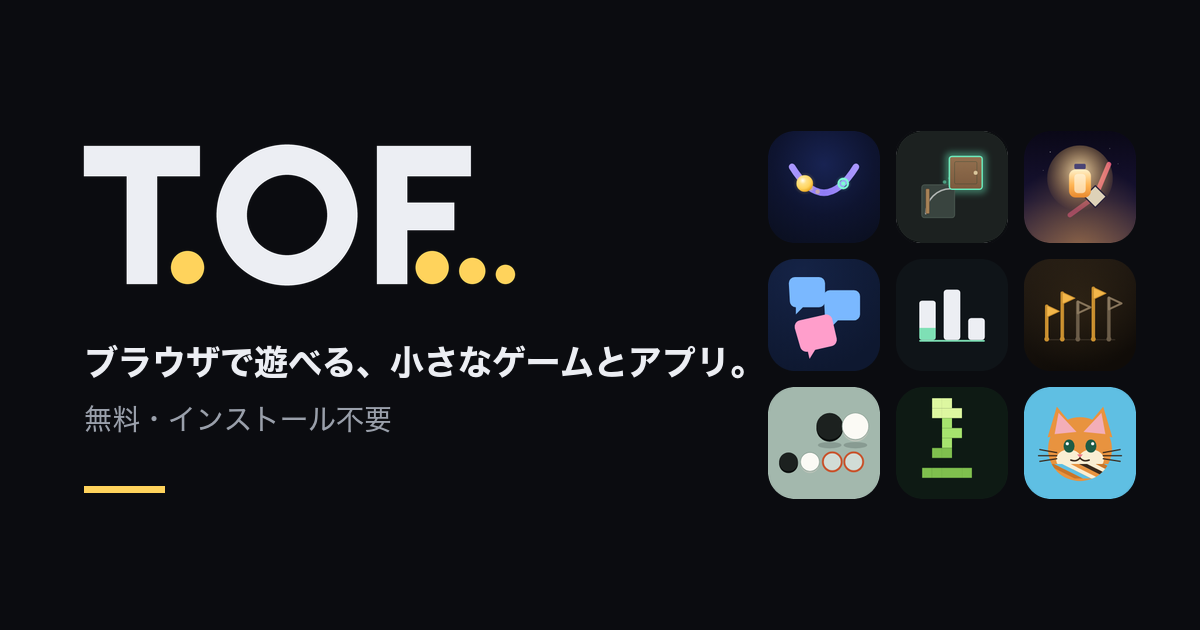
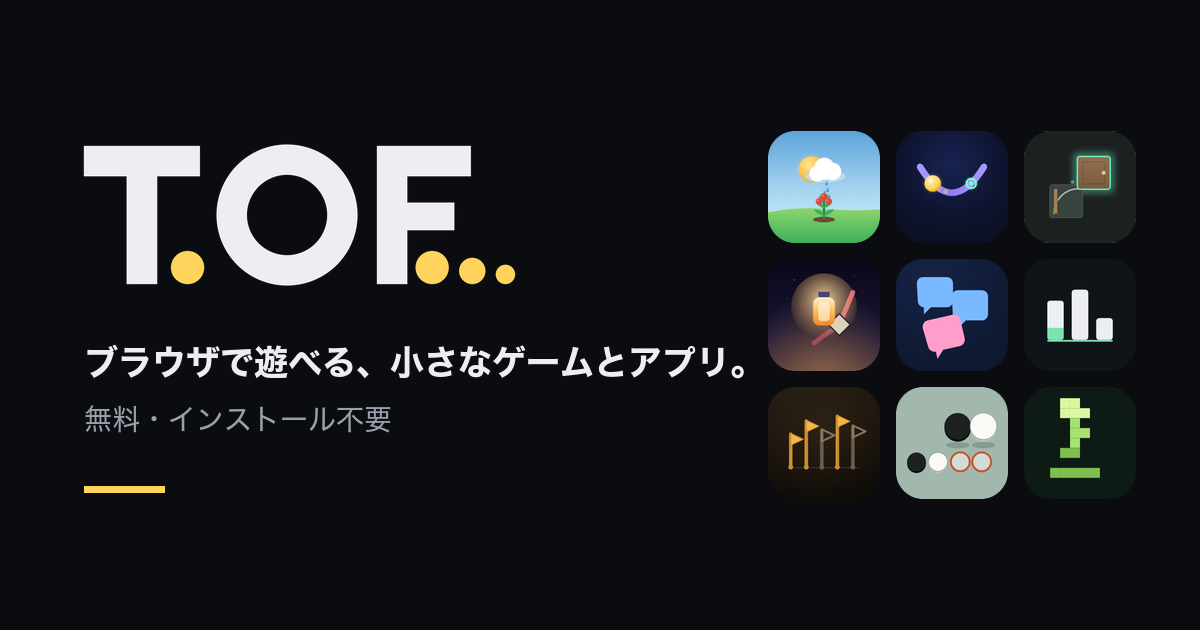
BLOOMCAST をポータルに追加する

Changed region(s): [[0.6167, 0.181, 0.9558, 0.8143], [0.8325, 0.2111, 0.9558, 0.3921]]

diff --git a/apps.js b/apps.js
@@ -13,6 +13,16 @@
 
 window.TOFO_APPS = [
   {
+    id: 'bloomcast',
+    name: 'BLOOMCAST',
+    title: '雲で日差しと雨を配って育てる',
+    desc: '空の雲を指で動かして太陽を隠し、長押しで雨を降らせて、画面の下の植物をできるだけ早く実らせる。ほしい日差しと水は朝・昼・夕と育ち具合で変わるので、動く太陽を追いかけて雲を配り直す。',
+    category: 'game',
+    tags: ['タイムアタック', '育成'],
+    icon: '/bloomcast/icons/icon-192.png',
+    color: '#5da3d9',
+  },
+  {
     id: 'slope-writer',
     name: 'SLOPE WRITER',
     title: '式の坂でボールを転がす',
